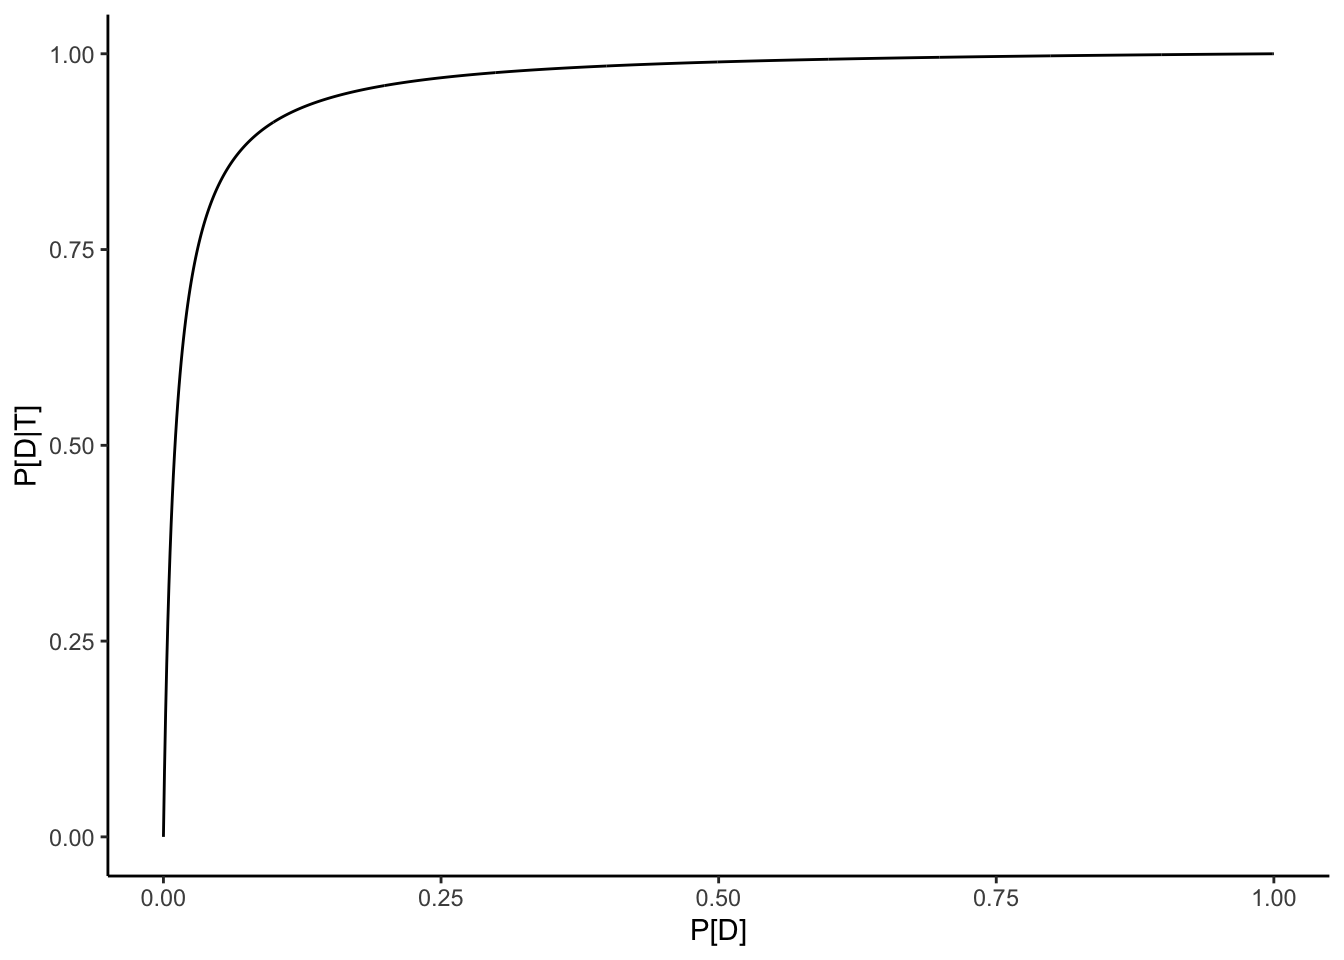
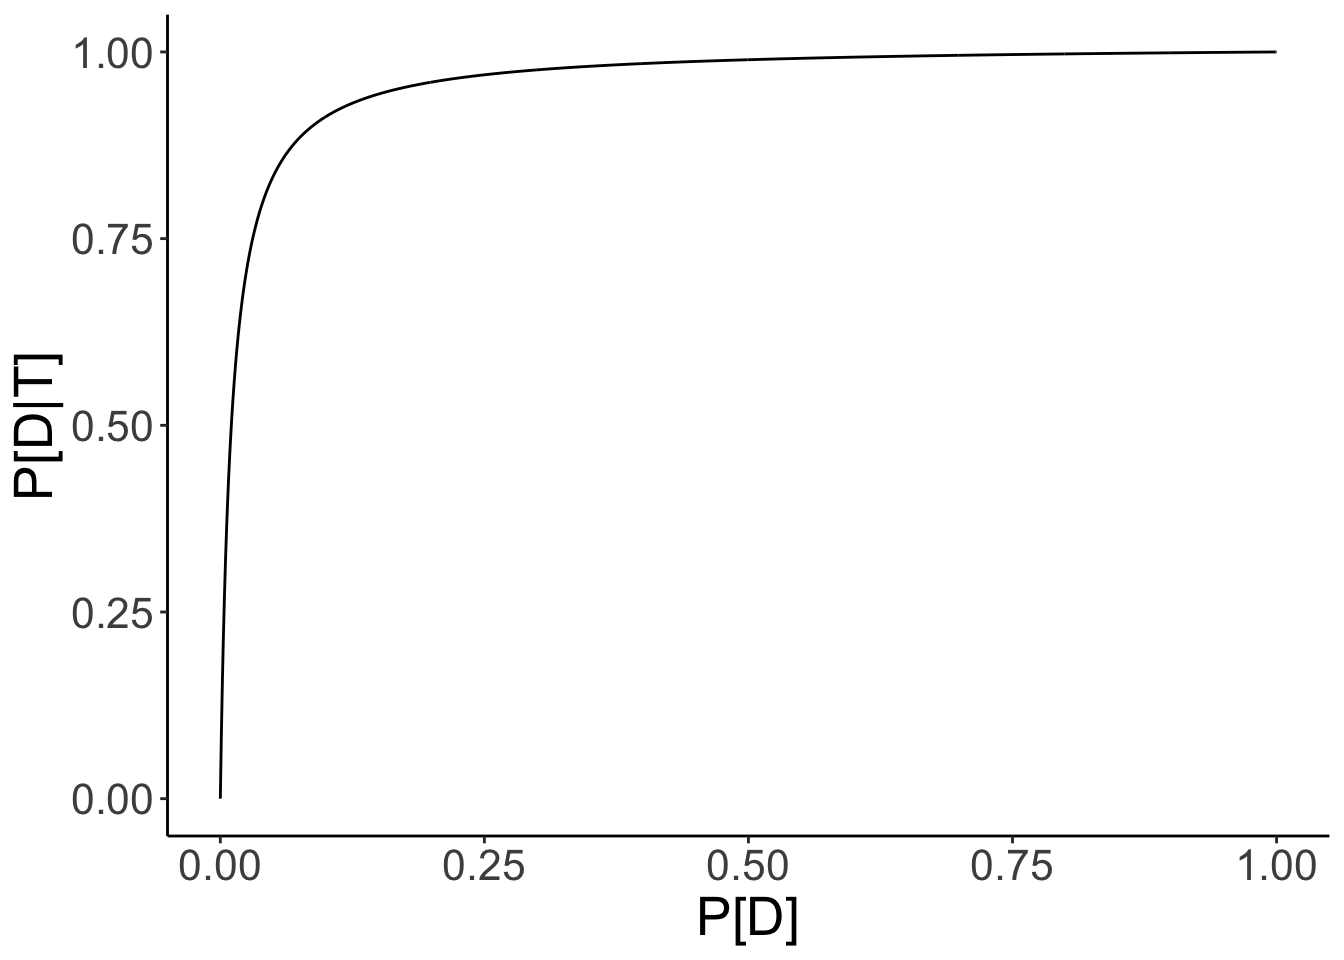
added title in nav.html

diff --git a/docs/2020/10/01/bayes-theorem-and-conditional-probability/index.html b/docs/2020/10/01/bayes-theorem-and-conditional-probability/index.html
@@ -43,7 +43,7 @@
          height="50"
          alt="Logo">
   </a>
-
+<p style="font-size:30px"> Applied Biostatistics I HS 2020
   <ul class="nav-links">
     
     <li><a href="/ABS1/about/">About</a></li>
@@ -55,6 +55,8 @@
     <li><a href="https://twitter.com/StephanPeischl">Twitter</a></li>
     
   </ul>
+  
+
 </nav>
 
       </header>
@@ -64,7 +66,7 @@
 
   <article class="article">
     
-    <span class="article-duration">3 min read</span>
+    <span class="article-duration">4 min read</span>
     
 
     <h1 class="article-title">Bayes Theorem and Conditional Probability</h1>
@@ -132,7 +134,8 @@ ggplot(dat,aes(x  = pD,y = pDgivenT)) +
   geom_line() +
   theme_classic() +
   xlab(&quot;P[D]&quot;) + 
-  ylab(&quot;P[D|T]&quot;)</code></pre>
+  ylab(&quot;P[D|T]&quot;) + 
+  theme(text = element_text(size = 20))  </code></pre>
 <p><img src="/ABS1/post/2020-10-01-bayes-theorem-and-conditional-probability_files/figure-html/unnamed-chunk-1-1.png" width="75%" /></p>
 <p>We see that the test’s false positive probability strongly depends on the prevalence. The rarer the disease is, the less reliable the test is in informing you whether you actually have the disease. The specificity also has a strong impact on the interpretation of the test. For instance, for the current Covid-19 PCR tests specificity seems to be closer to 99% than to 90%, then we would get the following:</p>
 <pre class="r"><code>pD = seq(0,1,by=0.001)
@@ -151,7 +154,8 @@ ggplot(dat,aes(x  = pD,y = pDgivenT)) +
   geom_line() +
   theme_classic()+
   xlab(&quot;P[D]&quot;) + 
-  ylab(&quot;P[D|T]&quot;)</code></pre>
+  ylab(&quot;P[D|T]&quot;) + 
+  theme(text = element_text(size = 20)) </code></pre>
 <p><img src="/ABS1/post/2020-10-01-bayes-theorem-and-conditional-probability_files/figure-html/unnamed-chunk-2-1.png" width="75%" /></p>
 
     </div>

diff --git a/content/post/2020-10-01-bayes-theorem-and-conditional-probability.html b/content/post/2020-10-01-bayes-theorem-and-conditional-probability.html
@@ -64,7 +64,8 @@ ggplot(dat,aes(x  = pD,y = pDgivenT)) +
   geom_line() +
   theme_classic() +
   xlab(&quot;P[D]&quot;) + 
-  ylab(&quot;P[D|T]&quot;)</code></pre>
+  ylab(&quot;P[D|T]&quot;) + 
+  theme(text = element_text(size = 20))  </code></pre>
 <p><img src="/ABS1/post/2020-10-01-bayes-theorem-and-conditional-probability_files/figure-html/unnamed-chunk-1-1.png" width="75%" /></p>
 <p>We see that the test’s false positive probability strongly depends on the prevalence. The rarer the disease is, the less reliable the test is in informing you whether you actually have the disease. The specificity also has a strong impact on the interpretation of the test. For instance, for the current Covid-19 PCR tests specificity seems to be closer to 99% than to 90%, then we would get the following:</p>
 <pre class="r"><code>pD = seq(0,1,by=0.001)
@@ -83,5 +84,6 @@ ggplot(dat,aes(x  = pD,y = pDgivenT)) +
   geom_line() +
   theme_classic()+
   xlab(&quot;P[D]&quot;) + 
-  ylab(&quot;P[D|T]&quot;)</code></pre>
+  ylab(&quot;P[D|T]&quot;) + 
+  theme(text = element_text(size = 20)) </code></pre>
 <p><img src="/ABS1/post/2020-10-01-bayes-theorem-and-conditional-probability_files/figure-html/unnamed-chunk-2-1.png" width="75%" /></p>

diff --git a/docs/2020/08/31/the-exercise-sessions/index.html b/docs/2020/08/31/the-exercise-sessions/index.html
@@ -38,7 +38,7 @@
          height="50"
          alt="Logo">
   </a>
-
+<p style="font-size:30px"> Applied Biostatistics I HS 2020
   <ul class="nav-links">
     
     <li><a href="/ABS1/about/">About</a></li>
@@ -50,6 +50,8 @@
     <li><a href="https://twitter.com/StephanPeischl">Twitter</a></li>
     
   </ul>
+  
+
 </nav>
 
       </header>

diff --git a/docs/2020/08/31/welcome/index.html b/docs/2020/08/31/welcome/index.html
@@ -38,7 +38,7 @@
          height="50"
          alt="Logo">
   </a>
-
+<p style="font-size:30px"> Applied Biostatistics I HS 2020
   <ul class="nav-links">
     
     <li><a href="/ABS1/about/">About</a></li>
@@ -50,6 +50,8 @@
     <li><a href="https://twitter.com/StephanPeischl">Twitter</a></li>
     
   </ul>
+  
+
 </nav>
 
       </header>

diff --git a/docs/about/index.html b/docs/about/index.html
@@ -38,7 +38,7 @@
          height="50"
          alt="Logo">
   </a>
-
+<p style="font-size:30px"> Applied Biostatistics I HS 2020
   <ul class="nav-links">
     
     <li><a href="/ABS1/about/">About</a></li>
@@ -50,6 +50,8 @@
     <li><a href="https://twitter.com/StephanPeischl">Twitter</a></li>
     
   </ul>
+  
+
 </nav>
 
       </header>

diff --git a/docs/categories/exercises/index.html b/docs/categories/exercises/index.html
@@ -40,7 +40,7 @@
          height="50"
          alt="Logo">
   </a>
-
+<p style="font-size:30px"> Applied Biostatistics I HS 2020
   <ul class="nav-links">
     
     <li><a href="/ABS1/about/">About</a></li>
@@ -52,6 +52,8 @@
     <li><a href="https://twitter.com/StephanPeischl">Twitter</a></li>
     
   </ul>
+  
+
 </nav>
 
       </header>

diff --git a/docs/categories/index.html b/docs/categories/index.html
@@ -40,7 +40,7 @@
          height="50"
          alt="Logo">
   </a>
-
+<p style="font-size:30px"> Applied Biostatistics I HS 2020
   <ul class="nav-links">
     
     <li><a href="/ABS1/about/">About</a></li>
@@ -52,6 +52,8 @@
     <li><a href="https://twitter.com/StephanPeischl">Twitter</a></li>
     
   </ul>
+  
+
 </nav>
 
       </header>

diff --git a/docs/categories/introduction/index.html b/docs/categories/introduction/index.html
@@ -40,7 +40,7 @@
          height="50"
          alt="Logo">
   </a>
-
+<p style="font-size:30px"> Applied Biostatistics I HS 2020
   <ul class="nav-links">
     
     <li><a href="/ABS1/about/">About</a></li>
@@ -52,6 +52,8 @@
     <li><a href="https://twitter.com/StephanPeischl">Twitter</a></li>
     
   </ul>
+  
+
 </nav>
 
       </header>

diff --git a/docs/contact/index.html b/docs/contact/index.html
@@ -38,7 +38,7 @@
          height="50"
          alt="Logo">
   </a>
-
+<p style="font-size:30px"> Applied Biostatistics I HS 2020
   <ul class="nav-links">
     
     <li><a href="/ABS1/about/">About</a></li>
@@ -50,6 +50,8 @@
     <li><a href="https://twitter.com/StephanPeischl">Twitter</a></li>
     
   </ul>
+  
+
 </nav>
 
       </header>

diff --git a/docs/index.html b/docs/index.html
@@ -40,7 +40,7 @@
          height="50"
          alt="Logo">
   </a>
-
+<p style="font-size:30px"> Applied Biostatistics I HS 2020
   <ul class="nav-links">
     
     <li><a href="/ABS1/about/">About</a></li>
@@ -52,6 +52,8 @@
     <li><a href="https://twitter.com/StephanPeischl">Twitter</a></li>
     
   </ul>
+  
+
 </nav>
 
       </header>

diff --git a/docs/post/index.html b/docs/post/index.html
@@ -40,7 +40,7 @@
          height="50"
          alt="Logo">
   </a>
-
+<p style="font-size:30px"> Applied Biostatistics I HS 2020
   <ul class="nav-links">
     
     <li><a href="/ABS1/about/">About</a></li>
@@ -52,6 +52,8 @@
     <li><a href="https://twitter.com/StephanPeischl">Twitter</a></li>
     
   </ul>
+  
+
 </nav>
 
       </header>

diff --git a/docs/tags/general-information/index.html b/docs/tags/general-information/index.html
@@ -40,7 +40,7 @@
          height="50"
          alt="Logo">
   </a>
-
+<p style="font-size:30px"> Applied Biostatistics I HS 2020
   <ul class="nav-links">
     
     <li><a href="/ABS1/about/">About</a></li>
@@ -52,6 +52,8 @@
     <li><a href="https://twitter.com/StephanPeischl">Twitter</a></li>
     
   </ul>
+  
+
 </nav>
 
       </header>
